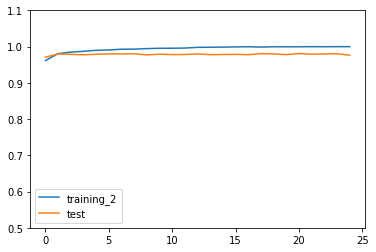
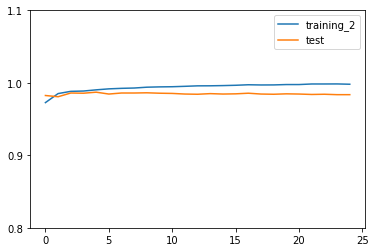
Retrain Resnet50

diff --git a/Resnet50/CNN Trans Learn/CNN_net_Transfer Learning.py b/Resnet50/CNN Trans Learn/CNN_net_Transfer Learning.py
@@ -39,10 +39,7 @@ model = Sequential()
 
 model.add(ResNet50 (include_top=False,
                   weights="imagenet",
-                  input_tensor=None,
-                  input_shape=(SIZE,SIZE,3),
-                  pooling='max',
-                  classes=np.max(train_labels+1)))
+                  pooling='avg'))
 
 model.add(Dense(2, activation = 'softmax'))
 model.layers[0].trainable = False
@@ -61,6 +58,7 @@ history = model.fit(train_images,
                     epochs = 25,
                     batch_size= 10)
 
+
 model.save('model_resnet50_Transfère_Learning.h5')
 
 plt.figure()
@@ -70,6 +68,17 @@ plt.ylim(0.5, 1)
 plt.yticks(np.arange(0.5, 1.1, 0.1))
 plt.legend(["training_"+ str(np.max(train_labels+1)), "test"])
 plt.show()
+
+plt.figure()
+plt.plot(history.history["accuracy"])
+plt.plot(history.history["val_accuracy"])
+plt.ylim(0.8, 1)
+plt.yticks(np.arange(0.8, 1.1, 0.1))
+plt.legend(["training_"+ str(np.max(train_labels+1)), "test"])
+plt.show()
+
+with open('history.pickle', 'wb') as f:
+    pickle.dump(history.history, f)
 
 model.evaluate(test_images, test_labels) 
 
